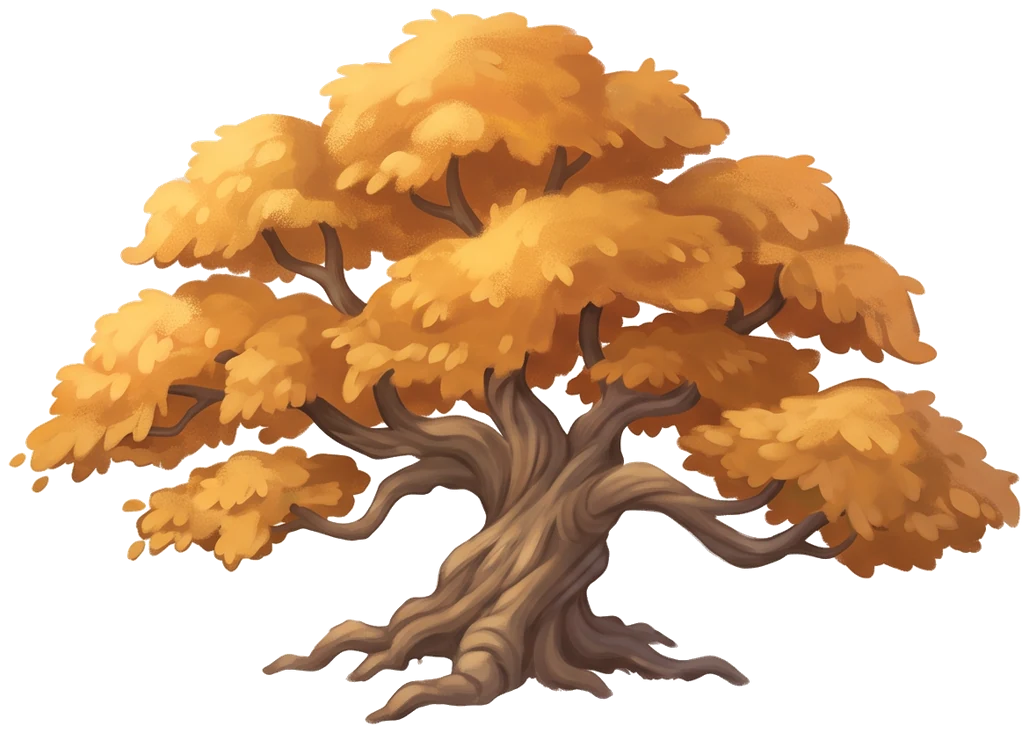
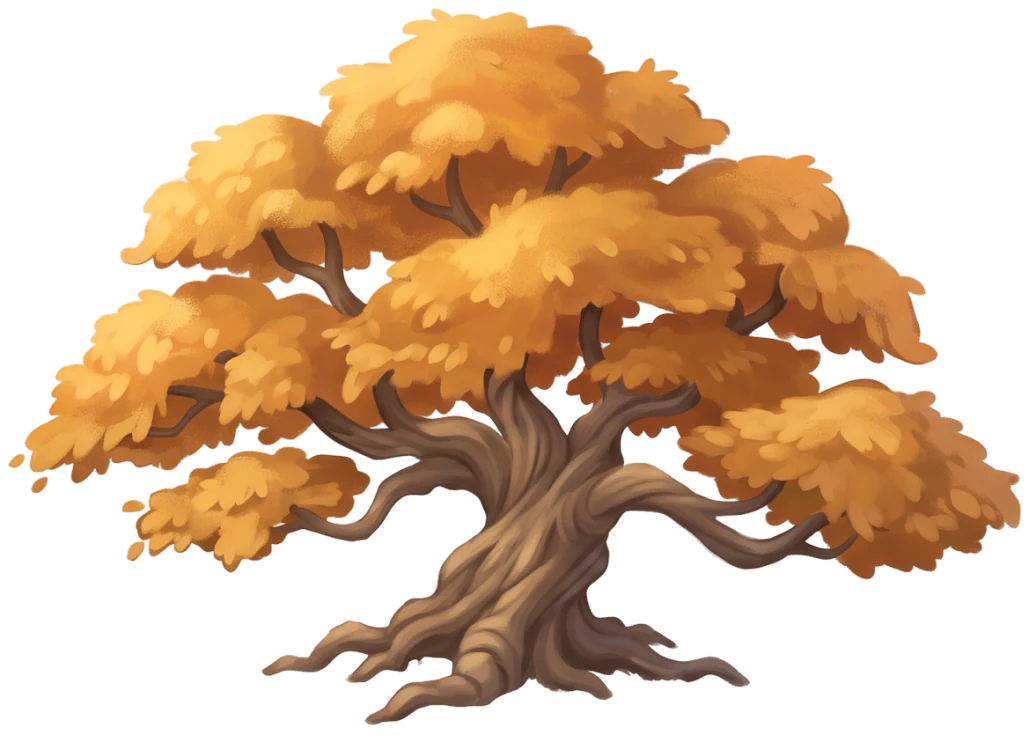
v78: reworked big oak s1-oak-2

diff --git a/index.html b/index.html
@@ -218,7 +218,7 @@ body.overview .hud, body.overview .stick-zone, body.overview .guide, body.overvi
 <script>
 // ===================== Общие настройки =====================
 const DPR = Math.min(window.devicePixelRatio || 1, 3);
-const GAME_VERSION = 77;   // совпадает с номером в sw.js (farm-vN); видно в окне «Заново»
+const GAME_VERSION = 78;   // совпадает с номером в sw.js (farm-vN); видно в окне «Заново»
 // Слои земли (трава, дорожки, поля, тени) — глубже любых персонажей и деревьев, даже с отрицательной y
 const GROUND = -5000;
 // Карта: y от −1000 до 2000. Верх (y < 0) — поле с пшеницей, низ (y > 1000) — пастбище Нанамина

diff --git a/sw.js b/sw.js
@@ -4,7 +4,7 @@
 //  • картинки и движок — сразу из сохранённой копии (без похода в сеть при каждом запуске).
 //    Когда выходит новая версия (меняется CACHE), новый service worker при установке
 //    обновляет все файлы — неизменённые браузер не скачивает заново (сверяет и получает «не изменился»).
-const CACHE = 'farm-v77';
+const CACHE = 'farm-v78';
 const CORE = [
   './',
   './index.html',
